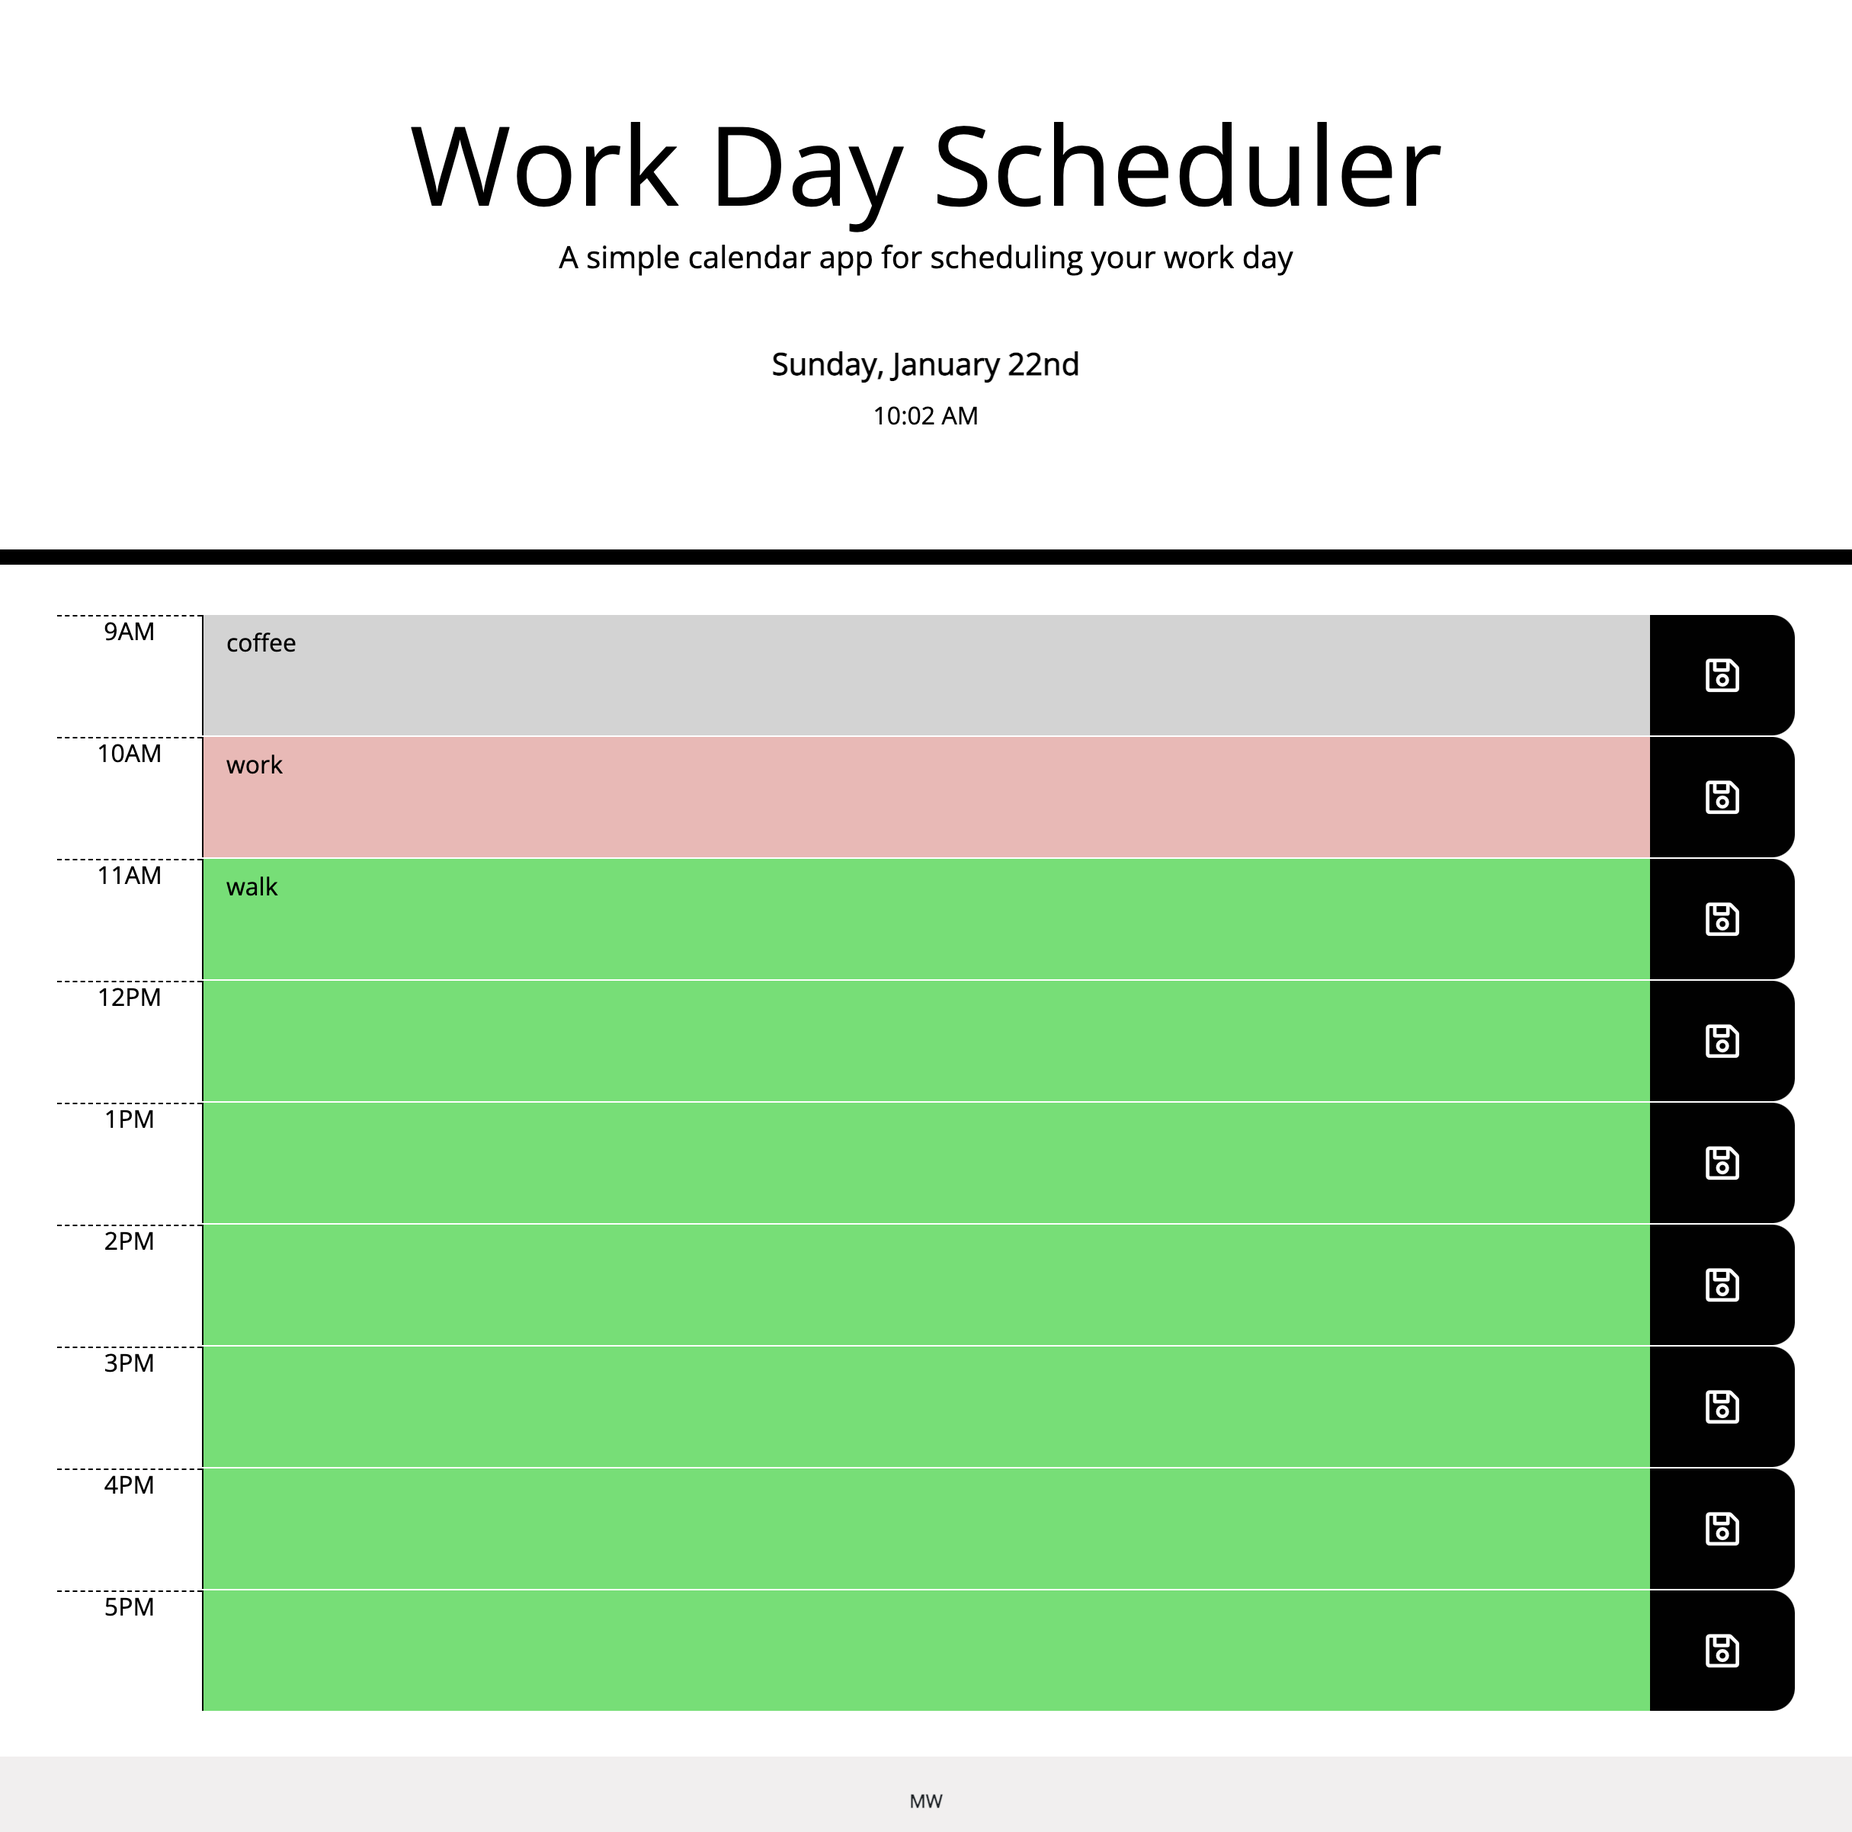
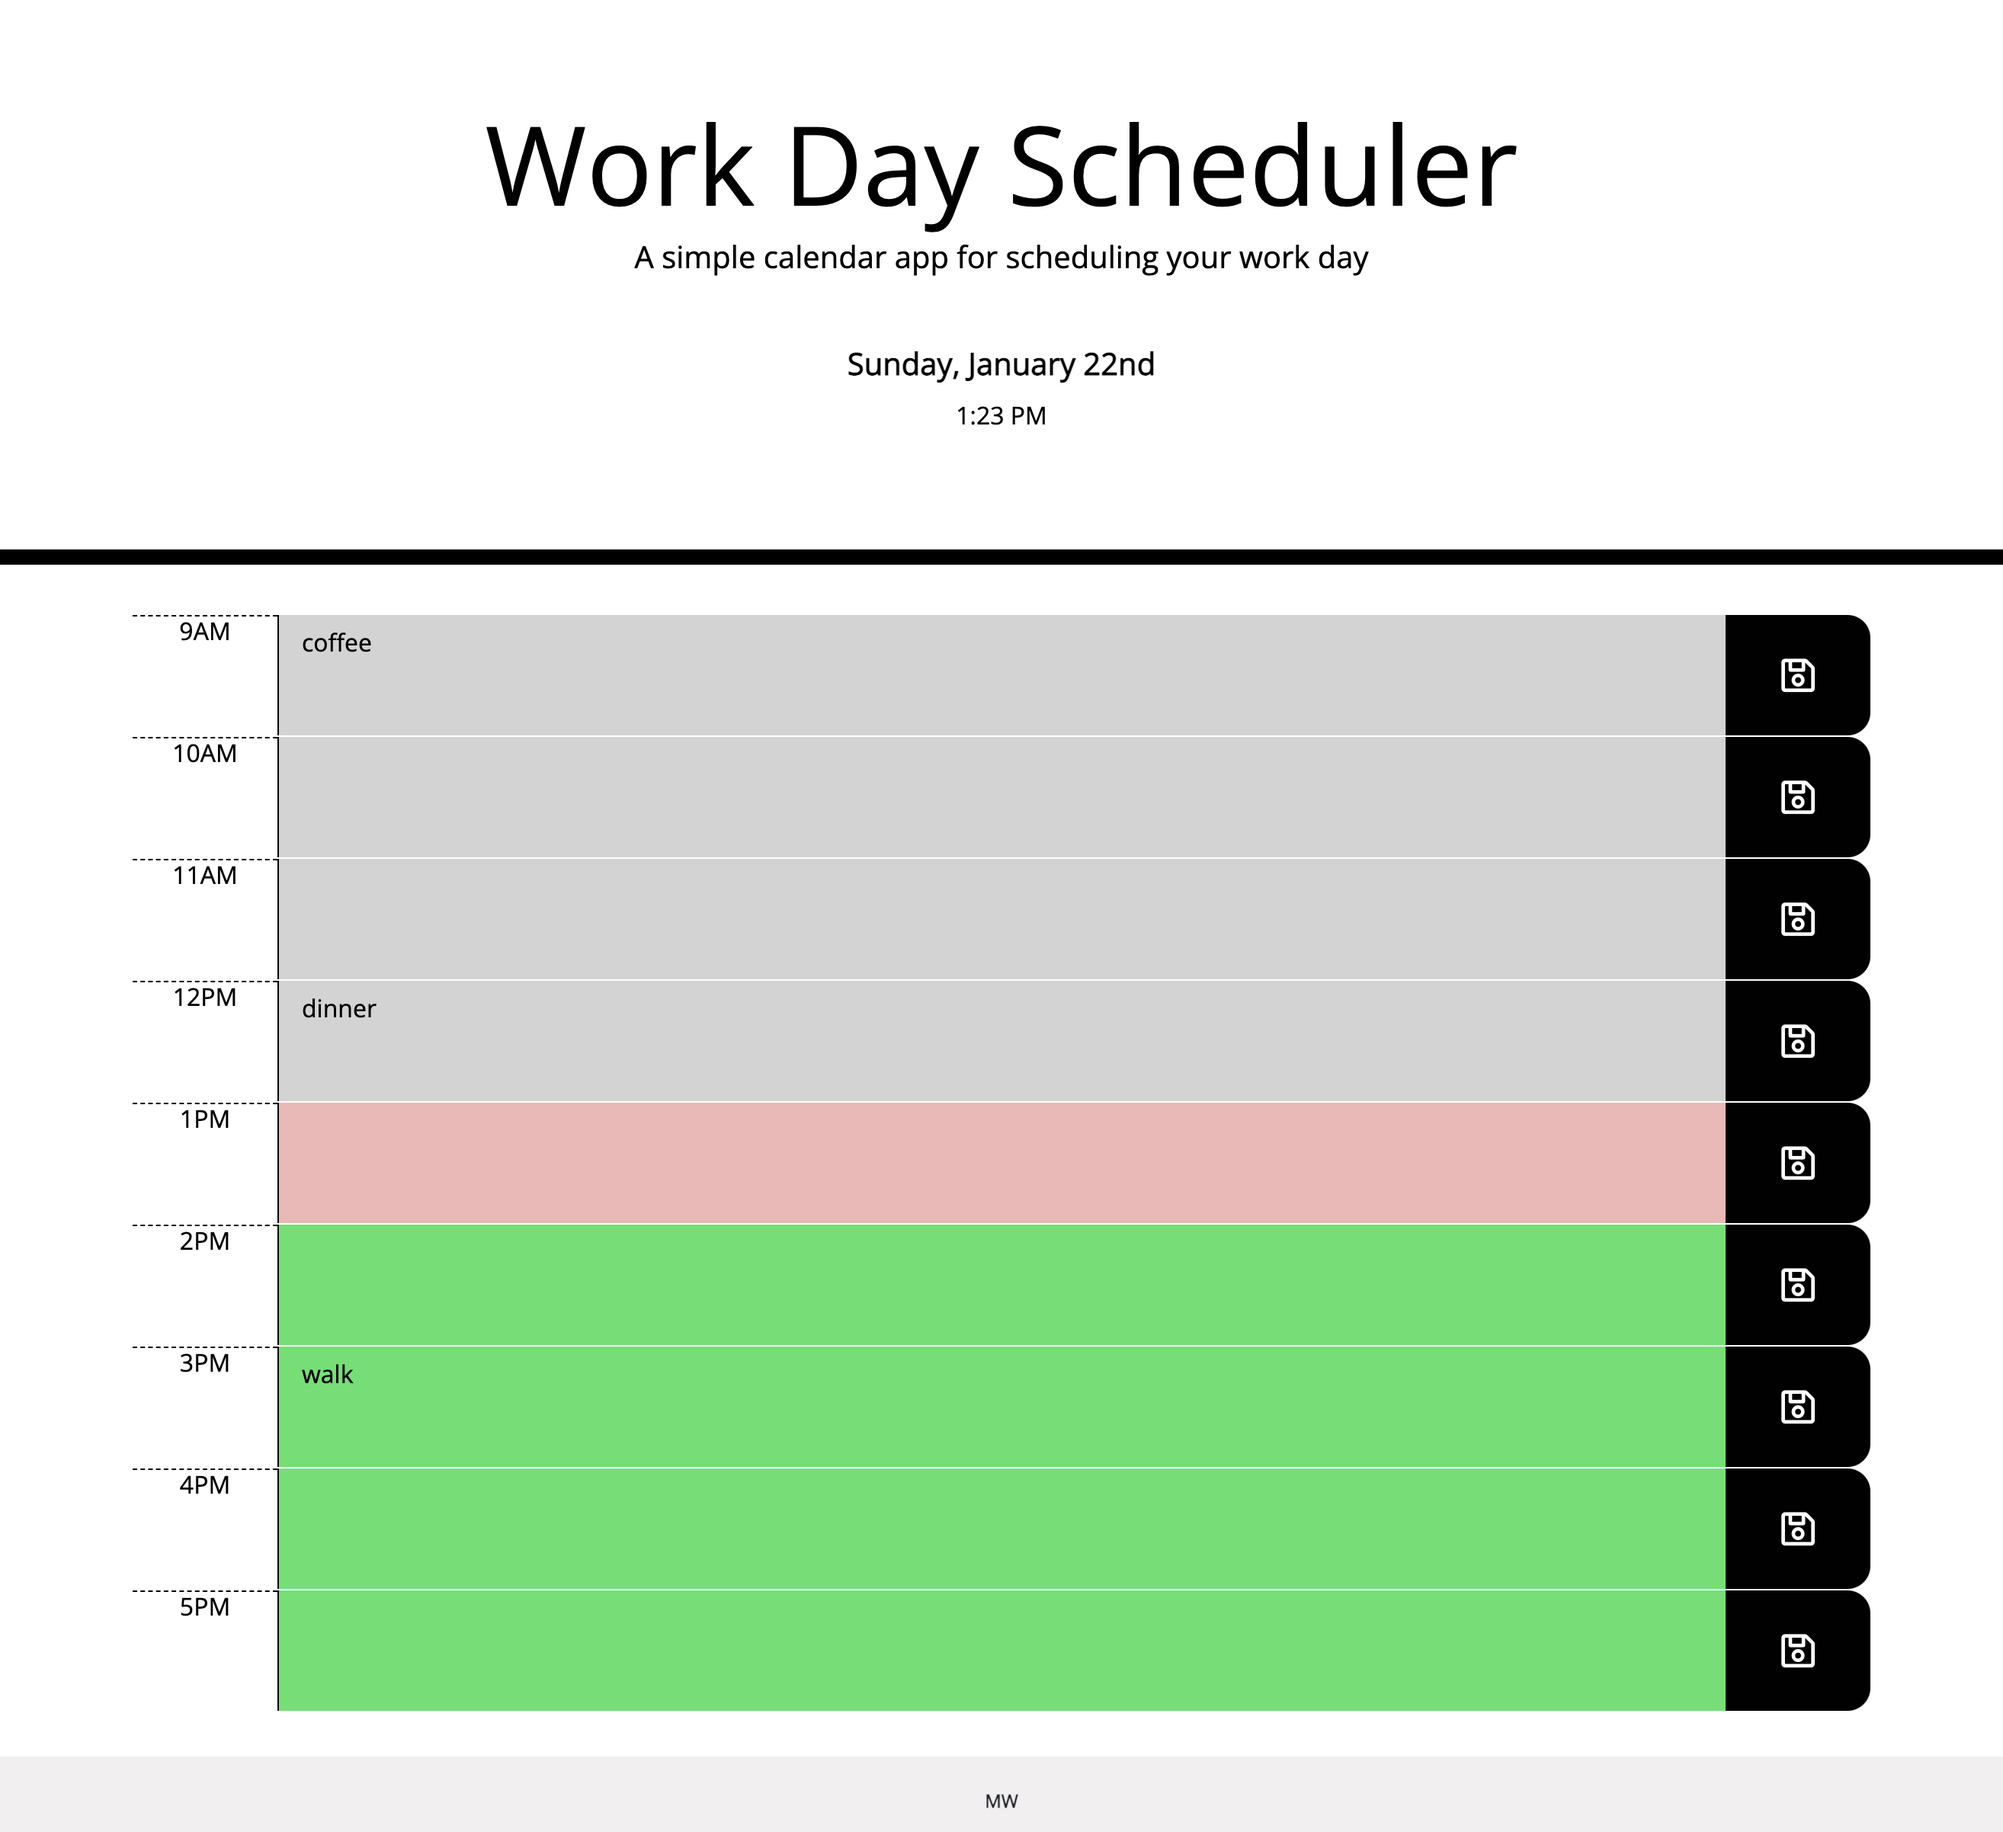
changed code from loop function to seperate for each text window

Changed region(s): [[0.0617, 0.312, 0.9877, 0.9359], [0.216, 0.0624, 0.7716, 0.156], [0.4012, 0.1872, 0.5864, 0.2496]]

diff --git a/assets/js/script.js b/assets/js/script.js
@@ -22,30 +22,162 @@ function checkTime() {
         } else {
             currentHour > i
             textArea.classList.add("future");
-        }
-        showMemos(i);
+        } 
     }
 }
 checkTime();
 
 
-// Save the event in local storage when the save button is clicked in that timebloc
-var index = 9;
-var saveBtn = document.querySelectorAll(".saveBtn");
-for (var i = 0; i < saveBtn.length; i++) {
-    saveBtn[i].addEventListener("click", function (event) {
+// Save the event in local storage when the save button is clicked in that timeblock
+// for 9am
+var saveBtn9 = document.querySelector("#save9");
+var userMemo9 = document.querySelector("#userMemo9");
+    saveBtn9.addEventListener("click", function (event) {
         event.preventDefault();
-        console.log(index)
 
-        var savedMemo = document.querySelector("#userMemo" + index).value;
-        localStorage.setItem("savedMemo" + index, savedMemo);
-        index++;
-    })
-};
+        var savedMemo9 = document.querySelector("#userMemo9").value;
+        localStorage.setItem("savedMemo9", savedMemo9); 
+    });
 
-var userMemo = document.querySelector("#userMemo");
-function showMemos(i) {
-    var savedMemo = localStorage.getItem("savedMemo" + i);
-    var textArea = document.getElementById("userMemo" + i);
-    textArea.value = savedMemo;
+function showMemo9() {
+    var savedMemo9 = localStorage.getItem("savedMemo9");
+    userMemo9 = document.getElementById("userMemo9");
+    userMemo9.value = savedMemo9;
 }
+showMemo9();
+
+// for 10am
+var saveBtn10 = document.querySelector("#save10");
+var userMemo10 = document.querySelector("#userMemo10");
+    saveBtn10.addEventListener("click", function (event) {
+        event.preventDefault();
+
+        var savedMemo10 = document.querySelector("#userMemo10").value;
+        localStorage.setItem("savedMemo10", savedMemo10); 
+    });
+
+function showMemo10() {
+    var savedMemo10 = localStorage.getItem("savedMemo10");
+    userMemo10 = document.getElementById("userMemo10");
+    userMemo10.value = savedMemo10;
+}
+showMemo10();
+
+// for 11am
+var saveBtn11 = document.querySelector("#save11");
+var userMemo11 = document.querySelector("#userMemo11");
+    saveBtn11.addEventListener("click", function (event) {
+        event.preventDefault();
+
+        var savedMemo11 = document.querySelector("#userMemo11").value;
+        localStorage.setItem("savedMemo11", savedMemo11); 
+    });
+
+function showMemo11() {
+    var savedMemo11 = localStorage.getItem("savedMemo11");
+    userMemo11 = document.getElementById("userMemo11");
+    userMemo11.value = savedMemo11;
+}
+showMemo11();
+
+// for 12pm
+var saveBtn12 = document.querySelector("#save12");
+var userMemo12 = document.querySelector("#userMemo12");
+    saveBtn12.addEventListener("click", function (event) {
+        event.preventDefault();
+
+        var savedMemo12 = document.querySelector("#userMemo12").value;
+        localStorage.setItem("savedMemo12", savedMemo12); 
+    });
+
+function showMemo12() {
+    var savedMemo12 = localStorage.getItem("savedMemo12");
+    userMemo12 = document.getElementById("userMemo12");
+    userMemo12.value = savedMemo12;
+}
+showMemo12();
+
+// for 13
+var saveBtn13 = document.querySelector("#save13");
+var userMemo13 = document.querySelector("#userMemo13");
+    saveBtn13.addEventListener("click", function (event) {
+        event.preventDefault();
+
+        var savedMemo13 = document.querySelector("#userMemo13").value;
+        localStorage.setItem("savedMemo13", savedMemo13); 
+    });
+
+function showMemo13() {
+    var savedMemo13 = localStorage.getItem("savedMemo13");
+    userMemo13 = document.getElementById("userMemo13");
+    userMemo13.value = savedMemo13;
+}
+showMemo13();
+
+// for 14
+var saveBtn14 = document.querySelector("#save14");
+var userMemo14 = document.querySelector("#userMemo14");
+    saveBtn14.addEventListener("click", function (event) {
+        event.preventDefault();
+
+        var savedMemo14 = document.querySelector("#userMemo14").value;
+        localStorage.setItem("savedMemo14", savedMemo14); 
+    });
+
+function showMemo14() {
+    var savedMemo14 = localStorage.getItem("savedMemo14");
+    userMemo14 = document.getElementById("userMemo14");
+    userMemo14.value = savedMemo14;
+}
+showMemo14();
+
+// for 15
+var saveBtn15 = document.querySelector("#save15");
+var userMemo15 = document.querySelector("#userMemo15");
+    saveBtn15.addEventListener("click", function (event) {
+        event.preventDefault();
+
+        var savedMemo15 = document.querySelector("#userMemo15").value;
+        localStorage.setItem("savedMemo15", savedMemo15); 
+    });
+
+function showMemo15() {
+    var savedMemo15 = localStorage.getItem("savedMemo15");
+    userMemo15 = document.getElementById("userMemo15");
+    userMemo15.value = savedMemo15;
+}
+showMemo15();
+
+// for 16
+var saveBtn16 = document.querySelector("#save16");
+var userMemo16 = document.querySelector("#userMemo16");
+    saveBtn16.addEventListener("click", function (event) {
+        event.preventDefault();
+
+        var savedMemo16 = document.querySelector("#userMemo16").value;
+        localStorage.setItem("savedMemo16", savedMemo16); 
+    });
+
+function showMemo16() {
+    var savedMemo16 = localStorage.getItem("savedMemo16");
+    userMemo16 = document.getElementById("userMemo16");
+    userMemo16.value = savedMemo16;
+}
+showMemo16();
+
+// for 17
+var saveBtn17 = document.querySelector("#save17");
+var userMemo17 = document.querySelector("#userMemo17");
+    saveBtn147addEventListener("click", function (event) {
+        event.preventDefault();
+
+        var savedMemo17 = document.querySelector("#userMemo17").value;
+        localStorage.setItem("savedMemo17", savedMemo17); 
+    });
+
+function showMemo17() {
+    var savedMemo17 = localStorage.getItem("savedMemo17");
+    userMemo17 = document.getElementById("userMemo17");
+    userMemo17.value = savedMemo17;
+}
+showMemo17();

diff --git a/index.html b/index.html
@@ -37,55 +37,55 @@
         <div class="row">
           <h6 class="hour col-1" id="9">9AM</h6>
           <textarea class="col-10 description" id="userMemo9"></textarea>
-          <button class="saveBtn col-1"><i class="far fa-save"></i></button>
+          <button class="saveBtn col-1" id="save9"><i class="far fa-save"></i></button>
         </div> 
         <!-- 10am row -->
         <div class="row ">
           <h6 class="hour col-1" id="10">10AM</h6>
           <textarea class="col-10 description" id="userMemo10"></textarea>
-          <button class="saveBtn col-1"><i class="far fa-save"></i></button>
+          <button class="saveBtn col-1" id="save10"><i class="far fa-save"></i></button>
         </div>
         <!-- 11am row -->
         <div class="row">
           <h6 class="hour col-1" id="11">11AM</h6>
           <textarea class="col-10 description" id="userMemo11"></textarea>
-          <button class="saveBtn col-1"><i class="far fa-save"></i></button>
+          <button class="saveBtn col-1" id="save11"><i class="far fa-save"></i></button>
         </div>
         <!-- 12pm row -->
         <div class="row">
           <h6 class="hour col-1" id="12">12PM</h6>
           <textarea class="col-10 description" id="userMemo12"></textarea>
-          <button class="saveBtn col-1"><i class="far fa-save"></i></button>
+          <button class="saveBtn col-1" id="save12"><i class="far fa-save"></i></button>
         </div>
         <!-- 13pm row -->
         <div class="row">
           <h6 class="hour col-1" id="13">1PM</h6>
           <textarea class="col-10 description" id="userMemo13"></textarea>
-          <button class="saveBtn col-1"><i class="far fa-save"></i></button>
+          <button class="saveBtn col-1" id="save13"><i class="far fa-save"></i></button>
         </div>
         <!-- 14pm row -->
         <div class="row">
           <h6 class="hour col-1" id="14">2PM</h6>
           <textarea class="col-10 description" id="userMemo14"></textarea>
-          <button class="saveBtn col-1"><i class="far fa-save"></i></button>
+          <button class="saveBtn col-1" id="save14"><i class="far fa-save"></i></button>
         </div>
         <!-- 15pm row -->
         <div class="row">
           <h6 class="hour col-1"  id="15">3PM</h6>
           <textarea class="col-10 description" id="userMemo15"></textarea>
-          <button class="saveBtn col-1"><i class="far fa-save"></i></button>
+          <button class="saveBtn col-1" id="save15"><i class="far fa-save"></i></button>
         </div>
         <!-- 16pm row -->
         <div class="row">
           <h6 class="hour col-1"  id="16">4PM</h6>
           <textarea class="col-10 description" id="userMemo16"></textarea>
-          <button class="saveBtn col-1"><i class="far fa-save"></i></button>
+          <button class="saveBtn col-1" id="save16"><i class="far fa-save"></i></button>
         </div>
         <!-- 17pm row -->
         <div class="row">
           <h6 class="hour col-1"  id="17">5PM</h6>
           <textarea class="col-10 description" id="userMemo17"></textarea>
-          <button class="saveBtn col-1"><i class="far fa-save"></i></button>
+          <button class="saveBtn col-1" id="save17"><i class="far fa-save"></i></button>
         </div>
     </div>
 
